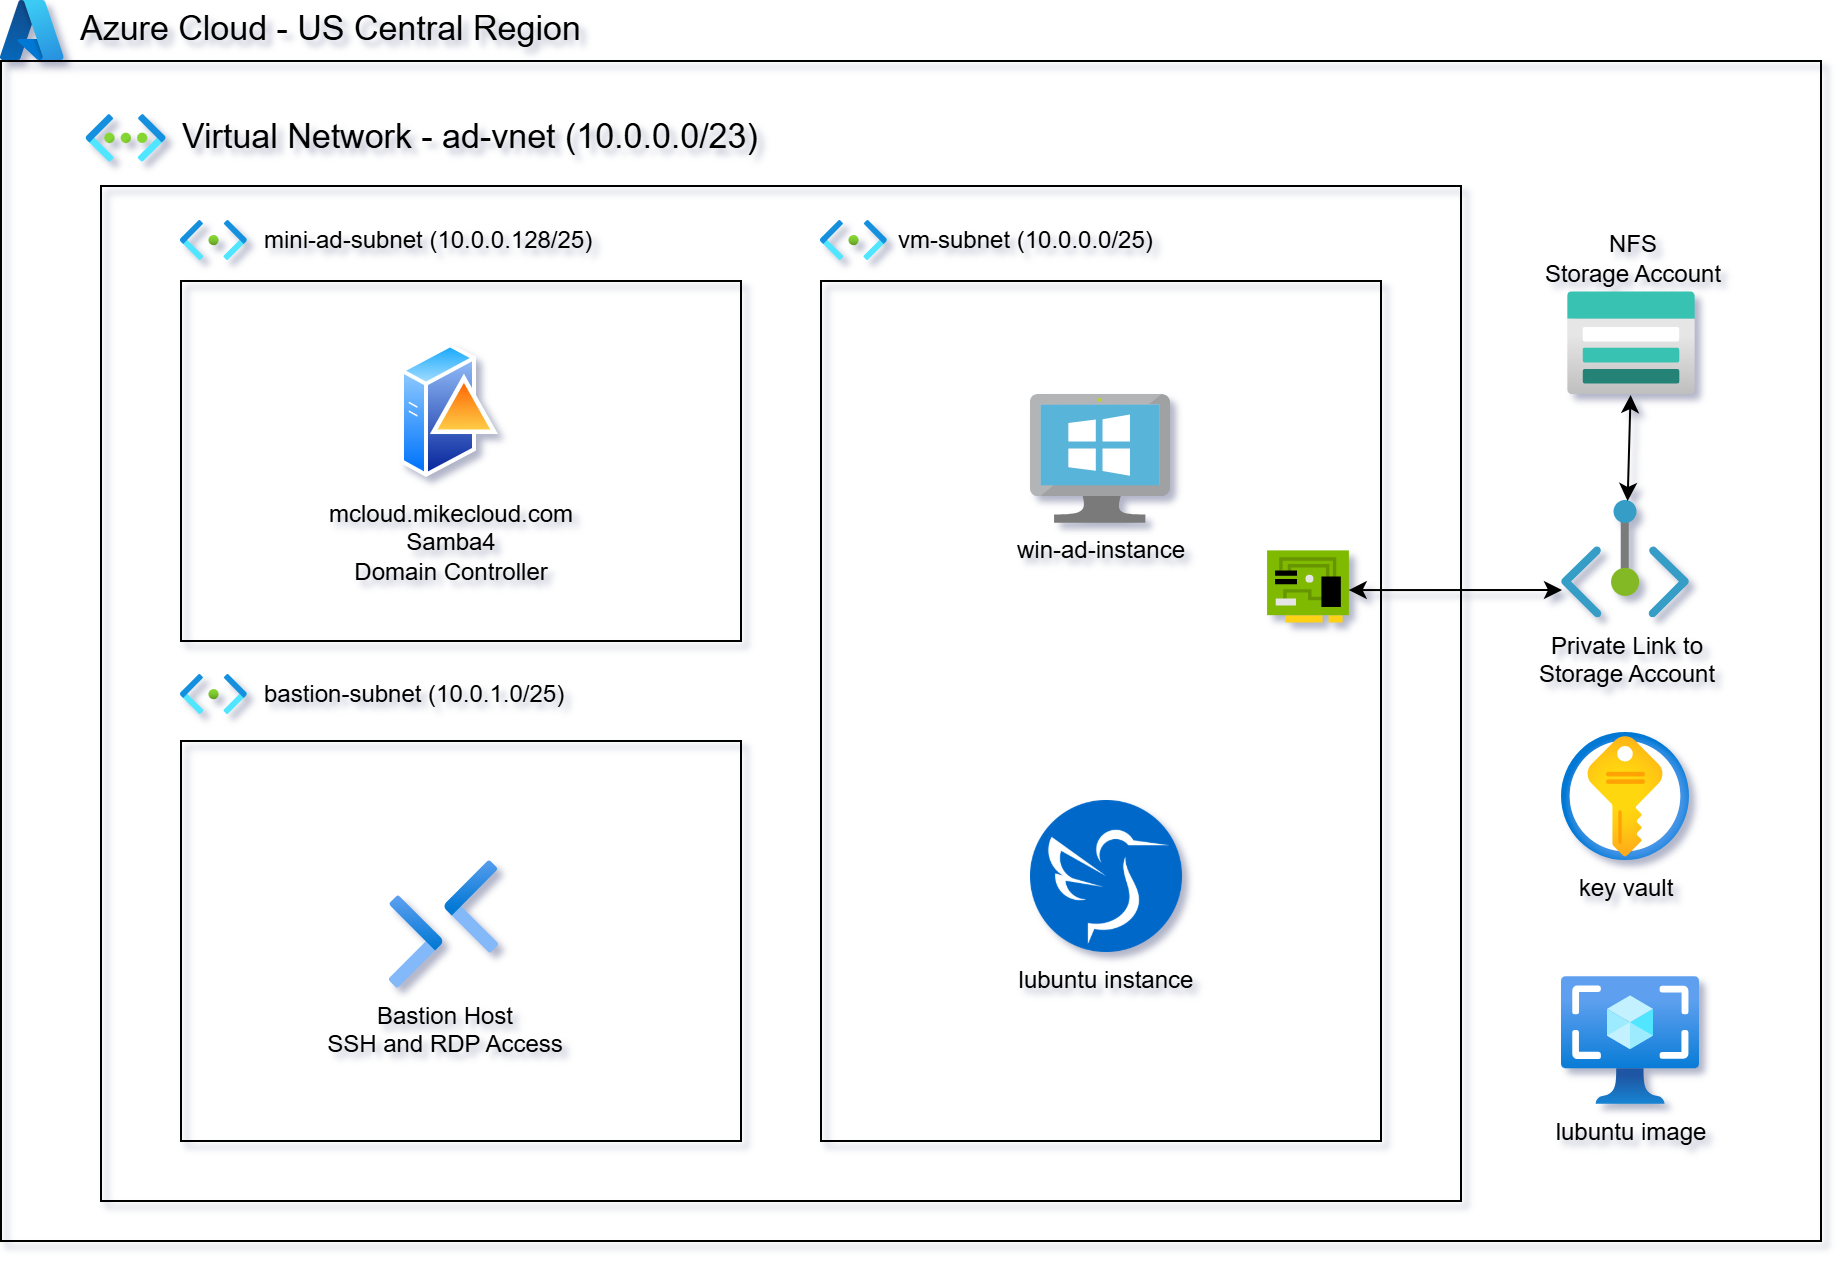
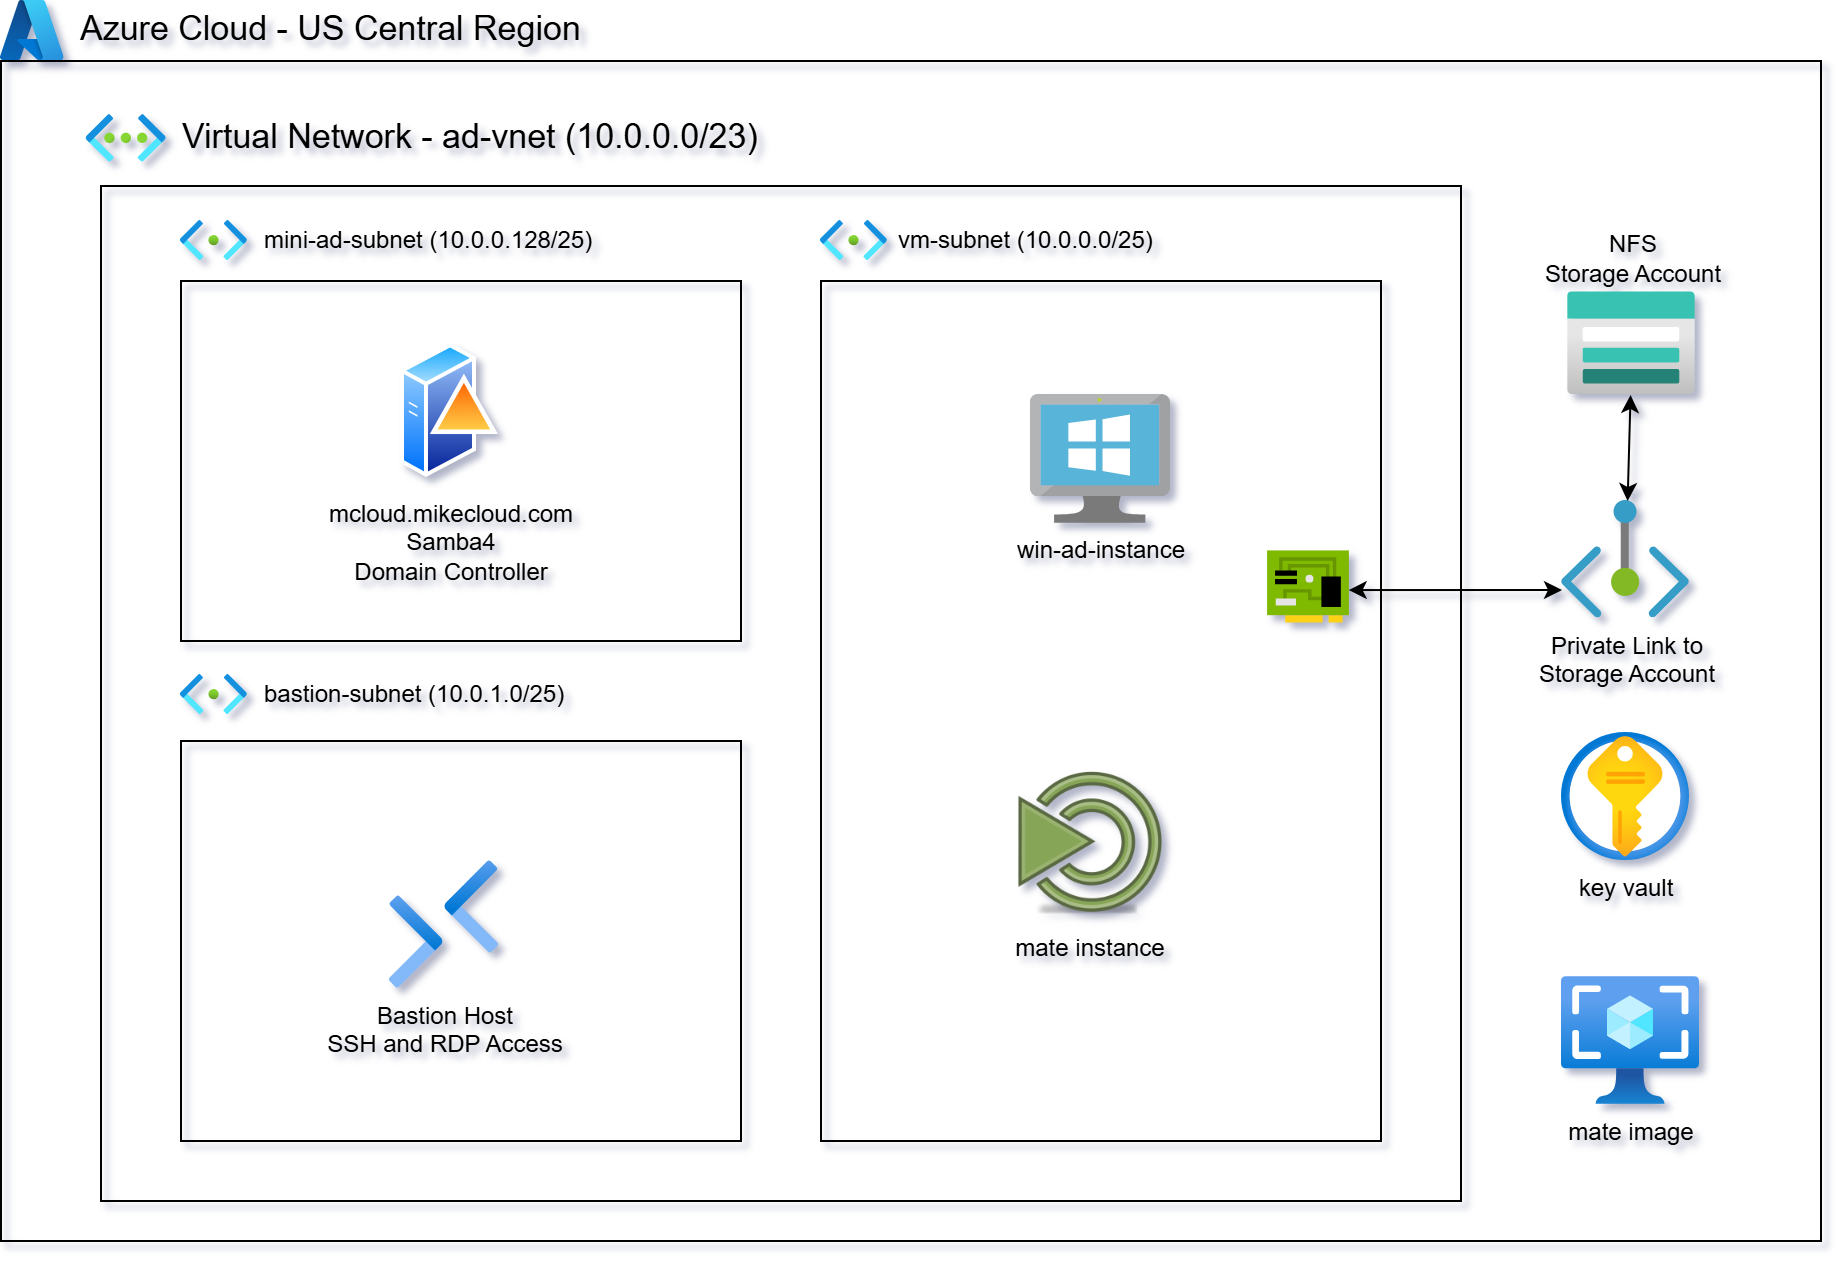
v1 of mate desktop

Changed region(s): [[0.5255, 0.5862, 0.6491, 0.8022], [0.8655, 0.8948, 0.9273, 0.9256]]

diff --git a/README.md b/README.md
@@ -1,7 +1,7 @@
-# Azure Lubuntu XRDP Cloud Development Environment
+# Azure MATE XRDP Cloud Development Environment
 
 This project provides a **complete cloud-based Linux desktop development environment**
-powered by **Lubuntu + XRDP**, **Mini-Active Directory**, and **Azure Files (NFS)** on
+powered by **MATE + XRDP**, **Mini-Active Directory**, and **Azure Files (NFS)** on
 the Microsoft Azure platform.
 
 It is designed as a **universal dev workstation** that contains the full superset of
@@ -12,11 +12,11 @@ tools, dependencies, and configurations used across all build projects on my cha
 Instead of manually configuring a workstation for each tutorial, demo, or cloud
 project, this solution automatically provisions:
 
-1. **A Custom Lubuntu XRDP Azure Image (Packer)**
+1. **A Custom MATE XRDP Azure Image (Packer)**
    - Preloaded with Chrome, Firefox (deb), VS Code, Docker, KRDC, Postman
    - Includes all development tooling used across channel projects:
      **Packer, Terraform, Docker CLI, Azure CLI, AWS CLI v2, Google Cloud CLI**
-   - Snap-free, clean, lightweight LXqt desktop
+   - Snap-free, clean, lightweight MATE desktop
    - XRDP fully configured with all fixes, enhancements, and defaults
    - Desktop/panel icons, terminal emulator defaults, and `/etc/skel` customizations
 
@@ -25,8 +25,8 @@ project, this solution automatically provisions:
    - Domain users generated from a template with friendly passwords
    - Central authentication for Linux and Windows clients
 
-3. **Domain-Joined Lubuntu XRDP VM (Terraform)**
-   - Deploys the Lubuntu XRDP instance using the Packer-built Azure Managed Image
+3. **Domain-Joined MATE XRDP VM (Terraform)**
+   - Deploys the MATE XRDP instance using the Packer-built Azure Managed Image
    - Automatically joins the Mini-AD domain during boot
    - Ensures consistent user profiles and default settings through `/etc/skel`
 
@@ -39,7 +39,7 @@ The result is a **disposable, reproducible, cloud-hosted Linux workstation** tha
 can be used for **any build, automation, or cloud project**
 featured on the channel.
 
-![Azure diagram](azure-lubuntu.png)
+![Azure diagram](azure-mate.png)
 
 
 ## Prerequisites
@@ -55,8 +55,8 @@ If this is your first time watching our content, we recommend starting with this
 ## Download this Repository
 
 ```bash
-git clone https://github.com/mamonaco1973/azure-lubuntu-xrdp.git
-cd azure-lubuntu-xrdp
+git clone https://github.com/mamonaco1973/azure-mate-xrdp.git
+cd azure-mate-xrdp
 ```
 
 
@@ -65,7 +65,7 @@ cd azure-lubuntu-xrdp
 Run [check_env](check_env.sh) to validate your environment, then run [apply](apply.sh) to provision the infrastructure.
 
 ```bash
-azureuser@devel~/azure-lubuntu-xrdp$ ./apply.sh
+azureuser@devel~/azure-mate-xrdp$ ./apply.sh
 NOTE: Validating that required commands are found in your PATH.
 NOTE: az is found in the current PATH.
 NOTE: terraform is found in the current PATH.
@@ -98,7 +98,7 @@ When the deployment completes, the following resources are created:
   - A dedicated Azure Virtual Network with public and private subnets  
   - Public IPs and optionally Bastion for secure management access  
   - Route tables and NSGs configured to support AD, Azure Files (NFS),  
-    and the Lubuntu XRDP VM  
+    and the MATE XRDP VM  
 
 - **Security & Identity:**  
   - Network Security Groups for the domain controller, Linux desktop VM,  
@@ -119,11 +119,11 @@ When the deployment completes, the following resources are created:
 - **Azure Files (Premium NFS):**  
   - Premium FileStorage account with NFS 4.1 shares  
   - Private endpoints and NSGs allowing NFS traffic (TCP/2049) from XRDP VMs  
-  - Serves as centralized home directory storage for Lubuntu desktop users  
+  - Serves as centralized home directory storage for MATE desktop users  
 
-- **Packer-Built Lubuntu XRDP Image:**  
+- **Packer-Built MATE XRDP Image:**  
   - Custom Azure Managed Image containing:  
-    - Lubuntu (LXqt), XRDP, Chrome, Firefox (deb), VS Code  
+    - MATE (LXqt), XRDP, Chrome, Firefox (deb), VS Code  
     - Development tools: **Packer, Terraform, Docker CLI, Azure CLI,  
       AWS CLI v2, Google Cloud CLI**  
     - KRDC, Postman, and all channel-wide tooling  
@@ -132,7 +132,7 @@ When the deployment completes, the following resources are created:
   - All XRDP fixes applied (session startup, untrusted launcher behavior,  
     consistent terminal defaults, etc.)  
 
-- **Lubuntu XRDP Desktop VM:**  
+- **MATE XRDP Desktop VM:**  
   - Azure VM deployed from the custom Managed Image  
   - Automatically joins the Mini-AD domain during cloud-init  
   - Home directories mounted from Azure Files (NFS 4.1)  
@@ -204,7 +204,7 @@ Follow these steps to provision a new user in the Active Directory domain and va
    - Open **PowerShell** on the AD server.  
    - Run the script located at:  
      ```powershell
-     Z:\azure-lubuntu-xrdp\04-utils\getNextUID.bat
+     Z:\azure-mate-xrdp\04-utils\getNextUID.bat
      ```  
    - This script returns the next available **`uidNumber`** to assign to the new account.  
 
@@ -222,7 +222,7 @@ Follow these steps to provision a new user in the Active Directory domain and va
      - **us** (or other geographic/departmental group as applicable).  
 
 8. **Validate User on Linux**  
-   - Open an **AWS Systems Manager (SSM)** session to the **`lubuntu-instance`** instance.  
+   - Open an **AWS Systems Manager (SSM)** session to the **`mate-instance`** instance.  
    - Run the following command to confirm the user’s identity mapping:  
      ```bash
      id mcloud
@@ -245,4 +245,4 @@ When you are finished testing, you can remove all provisioned resources with:
 ./destroy.sh
 ```
 
-This will remove all Azure resources created by the project — including the resource group, virtual network, subnets, network security groups, public IPs, NICs, the Lubuntu VM, and any supporting infrastructure. Secrets stored in Azure Key Vault will also be deleted unless a retention policy prevents their removal.
+This will remove all Azure resources created by the project — including the resource group, virtual network, subnets, network security groups, public IPs, NICs, the MATE VM, and any supporting infrastructure. Secrets stored in Azure Key Vault will also be deleted unless a retention policy prevents their removal.
